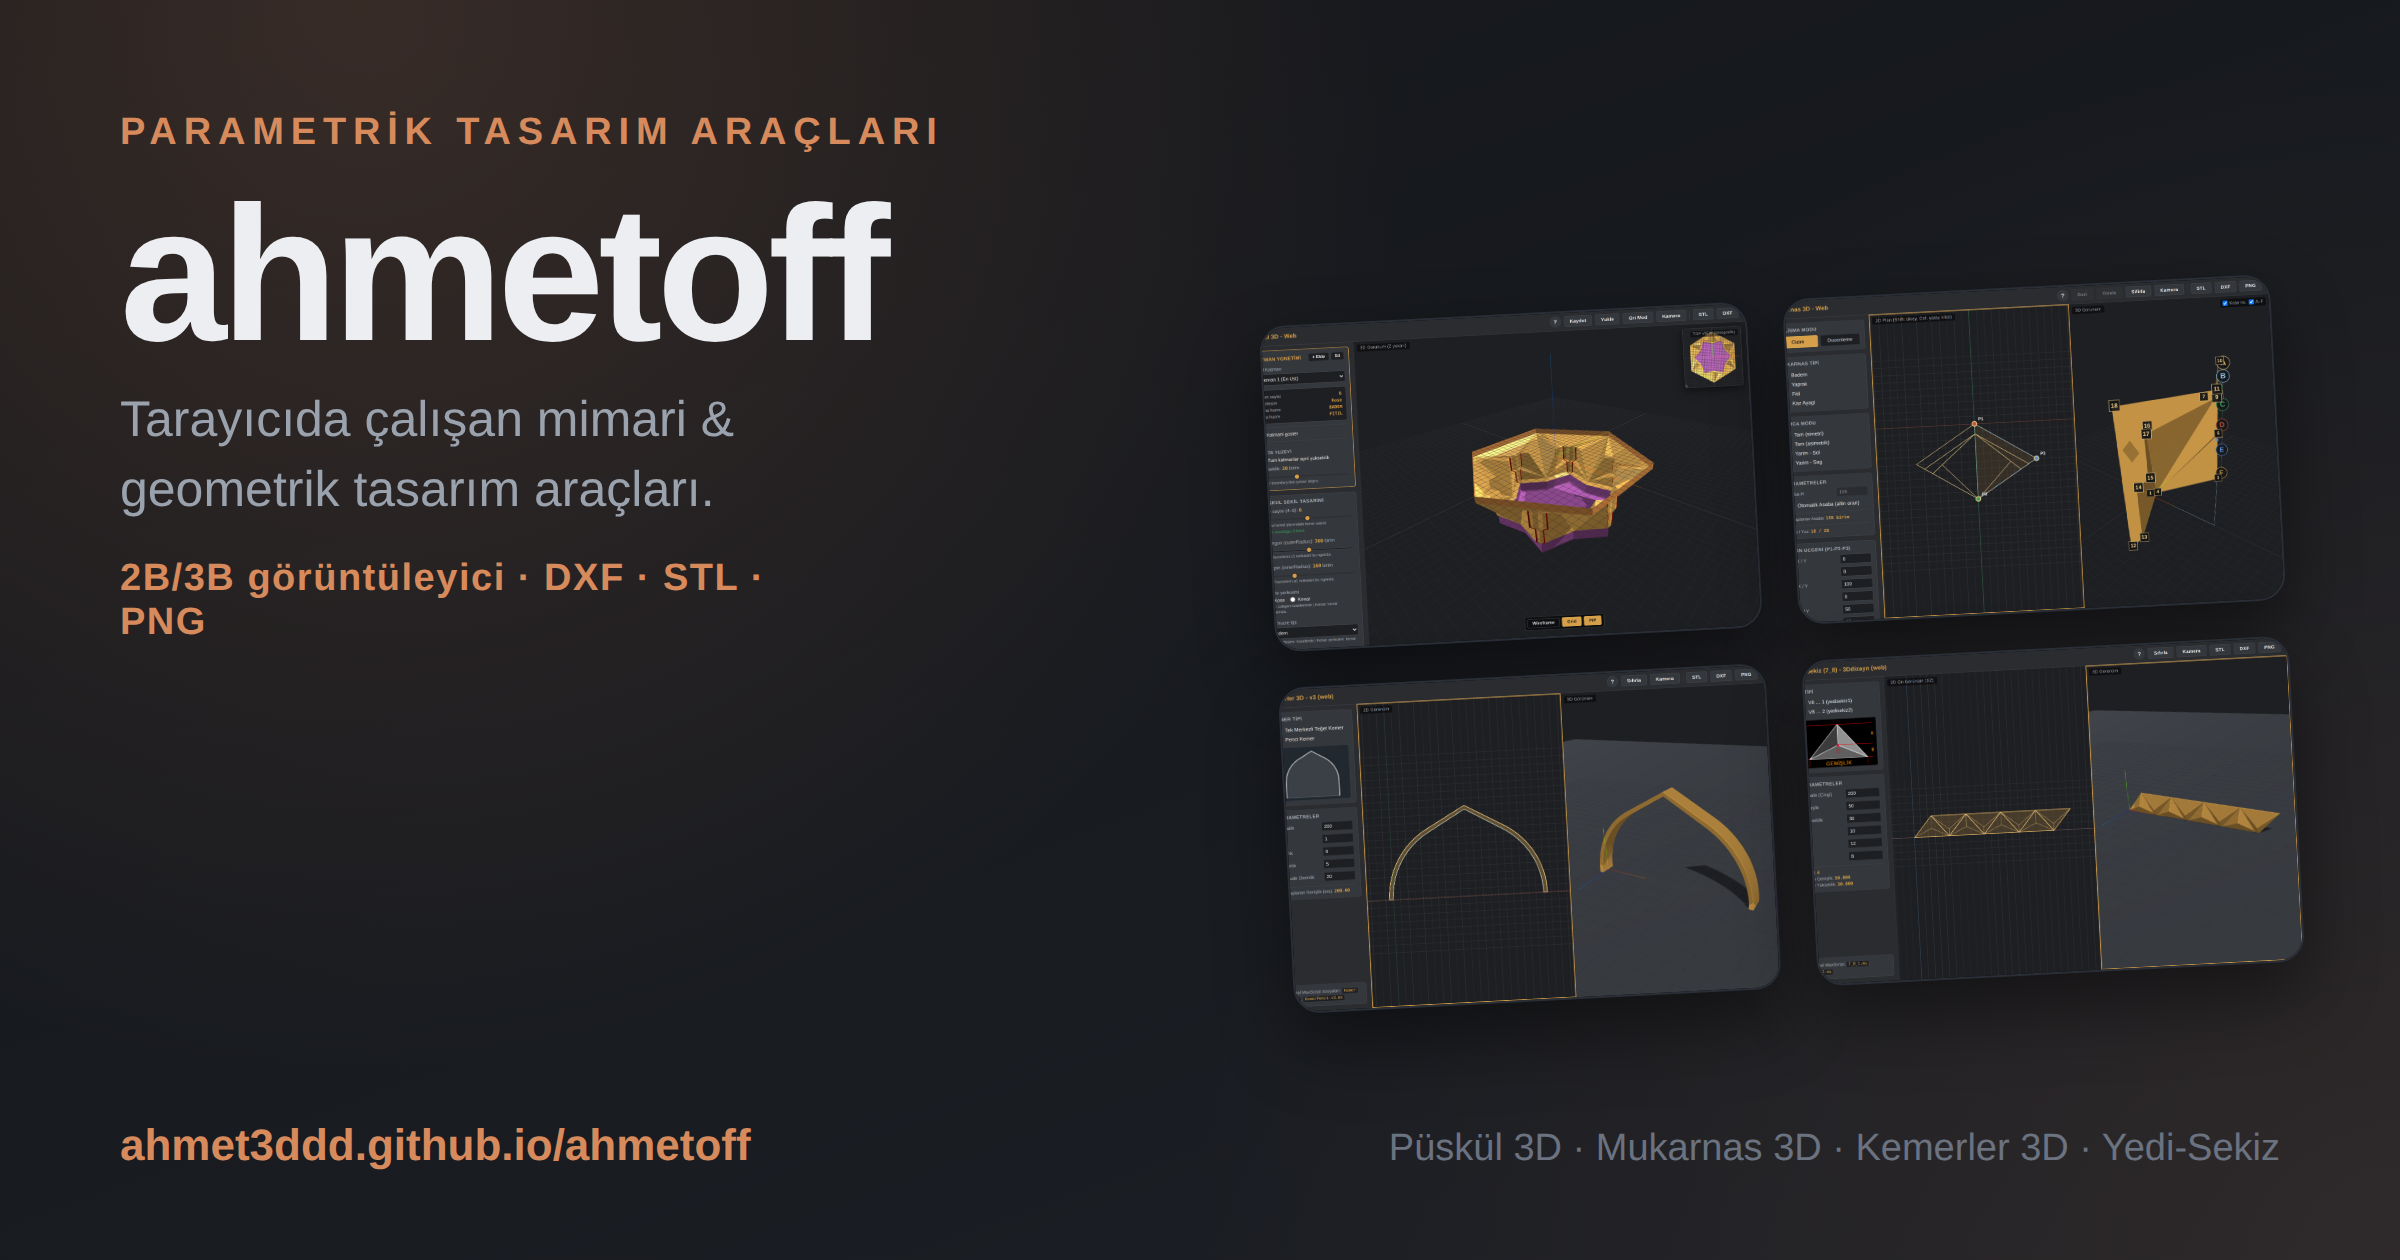
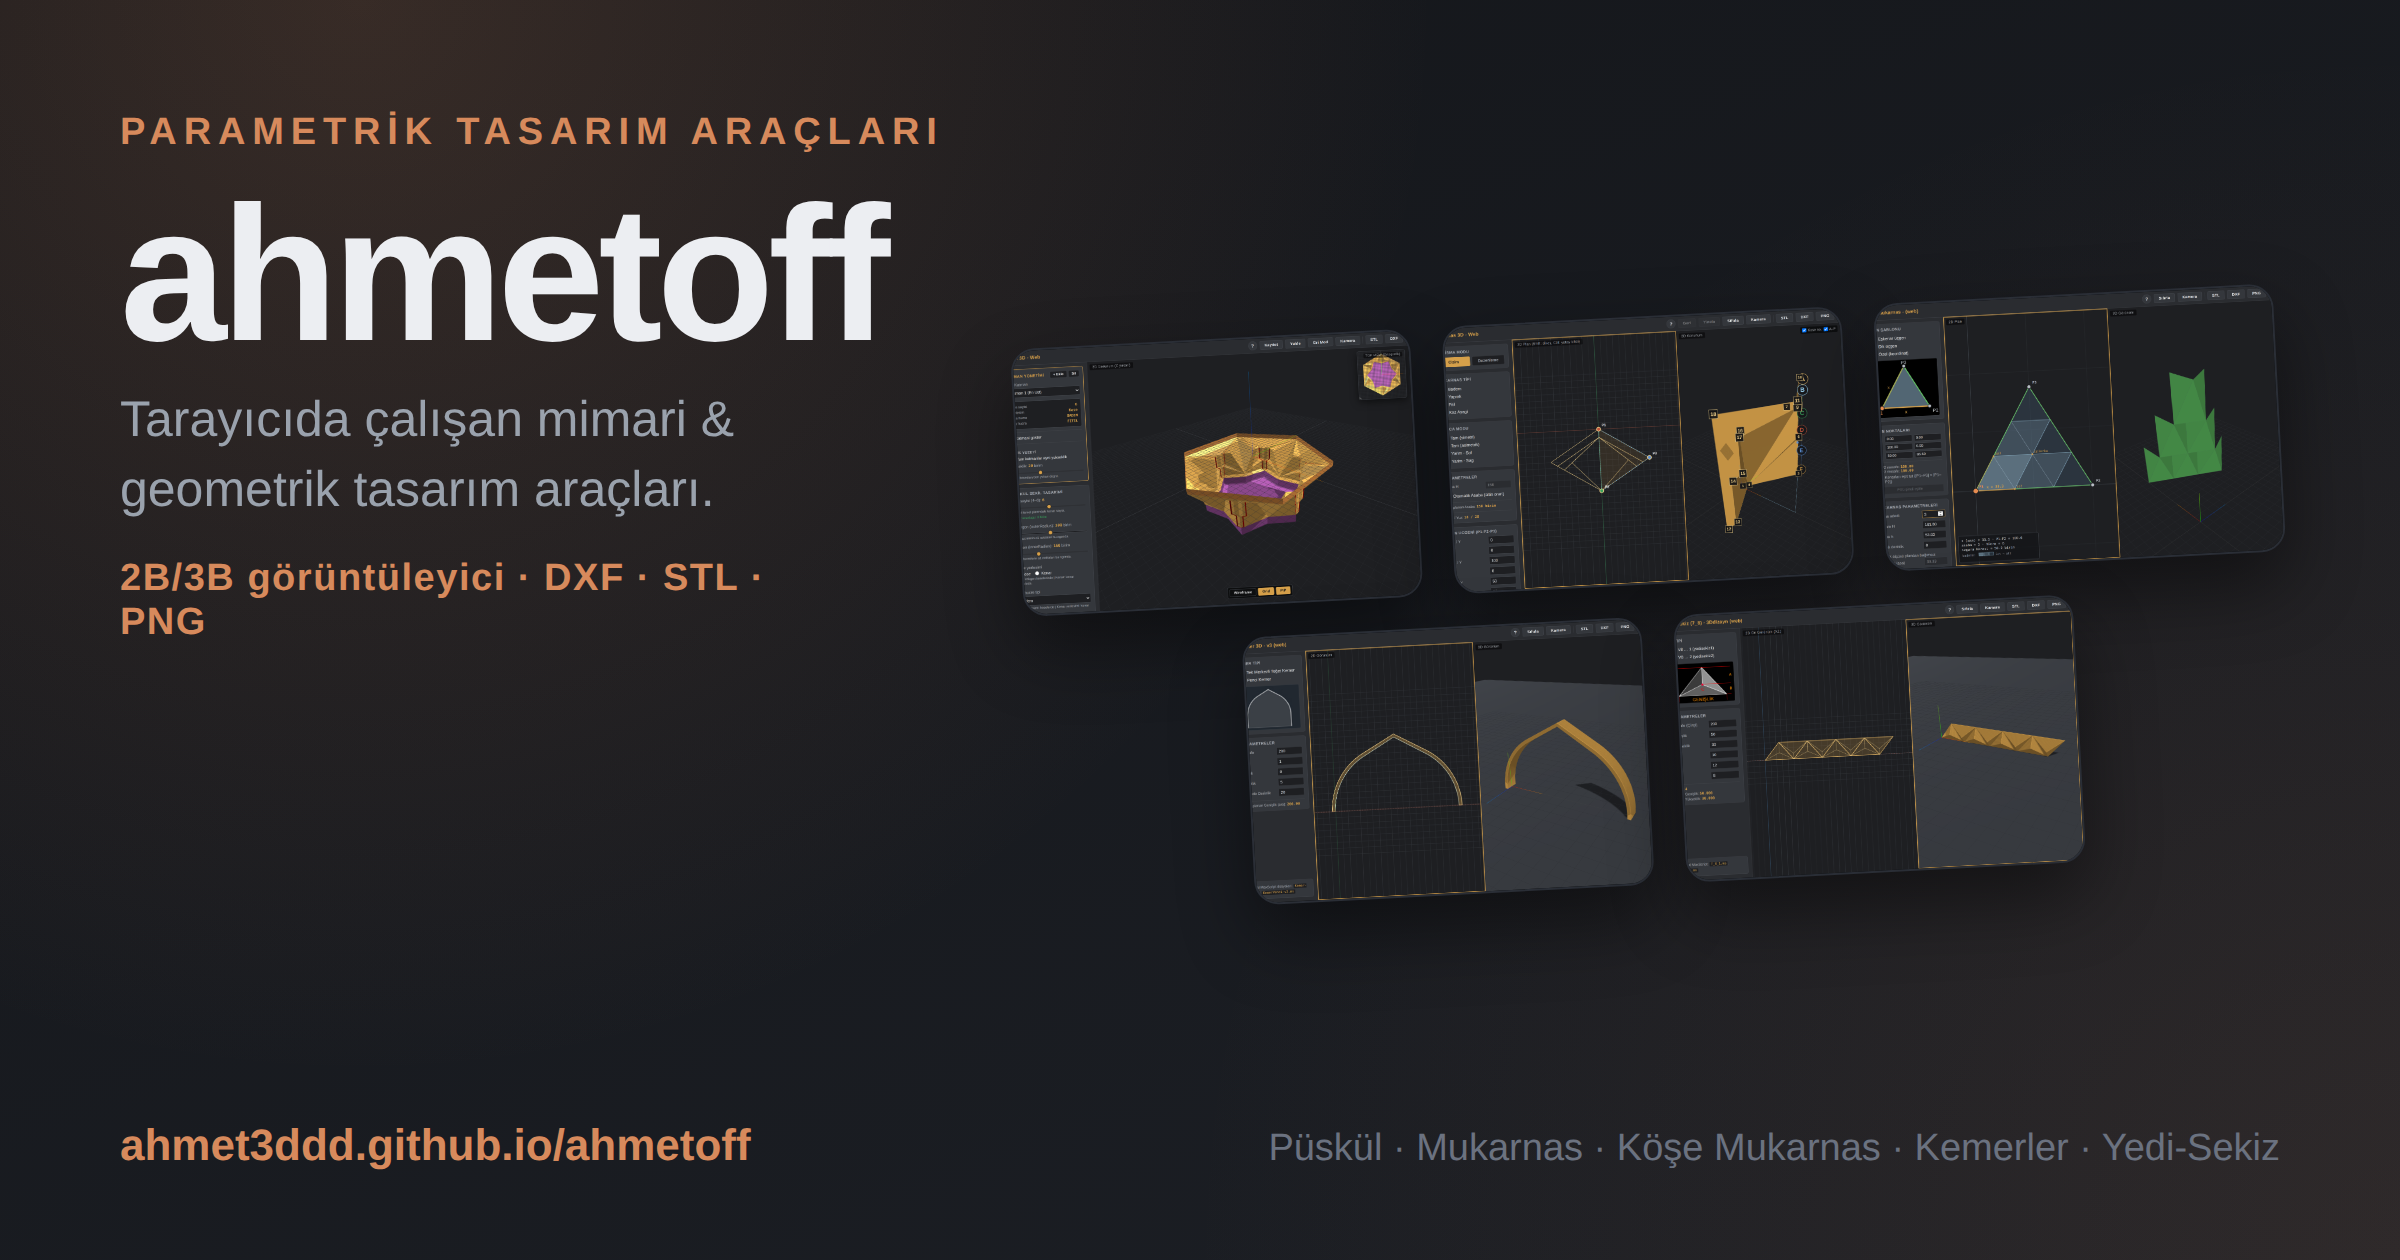
Tanitim guncellemesi: Kose Mukarnas eklendi, gorseller ve README'ler

diff --git a/index.html b/index.html
@@ -4,17 +4,17 @@
 <meta charset="utf-8" />
 <meta name="viewport" content="width=device-width, initial-scale=1" />
 <title>ahmetoff — Projeler</title>
-<meta name="description" content="Tarayıcıda çalışan parametrik mimari ve geometrik tasarım araçları: Kemerler 3D, Mukarnas 3D, Püskül 3D ve Yedi-Sekiz. 2B/3B görüntüleyici, DXF/STL/PNG dışa aktarım." />
+<meta name="description" content="Tarayıcıda çalışan parametrik mimari ve geometrik tasarım araçları: Kemerler 3D, Mukarnas 3D, Köşe Mukarnas, Püskül 3D ve Yedi-Sekiz. 2B/3B görüntüleyici, DXF/STL/PNG dışa aktarım." />
 
 <!-- Sosyal medya link onizlemesi (Open Graph / Twitter) -->
 <meta property="og:type" content="website" />
 <meta property="og:title" content="ahmetoff — Parametrik Tasarım Araçları" />
-<meta property="og:description" content="Tarayıcıda çalışan mimari ve geometrik tasarım araçları: Kemerler 3D, Mukarnas 3D, Püskül 3D, Yedi-Sekiz. 2B/3B görüntüleyici, DXF/STL/PNG dışa aktarım." />
+<meta property="og:description" content="Tarayıcıda çalışan mimari ve geometrik tasarım araçları: Kemerler 3D, Mukarnas 3D, Köşe Mukarnas, Püskül 3D, Yedi-Sekiz. 2B/3B görüntüleyici, DXF/STL/PNG dışa aktarım." />
 <meta property="og:image" content="https://ahmet3ddd.github.io/ahmetoff/assets/cover.png" />
 <meta property="og:url" content="https://ahmet3ddd.github.io/ahmetoff/" />
 <meta name="twitter:card" content="summary_large_image" />
 <meta name="twitter:title" content="ahmetoff — Parametrik Tasarım Araçları" />
-<meta name="twitter:description" content="Kemerler 3D, Mukarnas 3D, Püskül 3D ve Yedi-Sekiz — tarayıcıda çalışan tasarım araçları." />
+<meta name="twitter:description" content="Kemerler 3D, Mukarnas 3D, Köşe Mukarnas, Püskül 3D ve Yedi-Sekiz — tarayıcıda çalışan tasarım araçları." />
 <meta name="twitter:image" content="https://ahmet3ddd.github.io/ahmetoff/assets/cover.png" />
 
 <style>
@@ -143,6 +143,23 @@
           <div class="actions">
             <a class="btn primary" href="projects/AI_muk3d/index.html">Aç &rarr;</a>
             <a class="btn ghost" href="https://github.com/ahmet3ddd/ahmetoff/tree/main/projects/AI_muk3d">Kaynak</a>
+          </div>
+        </div>
+      </article>
+
+      <article class="card">
+        <img class="shot" src="assets/shot-kmuk3d.png" alt="Köşe Mukarnas ekran görüntüsü" />
+        <div class="body">
+          <h2>Köşe Mukarnas</h2>
+          <p>Köşe mukarnaslarını üçgen plan üzerinden kurgulayan; asaba sayısı ve kademelerle 3B üreten web aracı.</p>
+          <div class="tags">
+            <span class="tag">Köşe mukarnas</span>
+            <span class="tag">Üçgen plan</span>
+            <span class="tag">DXF / STL / PNG</span>
+          </div>
+          <div class="actions">
+            <a class="btn primary" href="projects/AI_K_muk3d/index.html">Aç &rarr;</a>
+            <a class="btn ghost" href="https://github.com/ahmet3ddd/ahmetoff/tree/main/projects/AI_K_muk3d">Kaynak</a>
           </div>
         </div>
       </article>

diff --git a/projects/AI_K_muk3d/README.md b/projects/AI_K_muk3d/README.md
@@ -1,0 +1,47 @@
+# Köşe Mukarnas
+
+Köşe mukarnaslarını üçgen plan üzerinden parametrik olarak 2B ve 3B kurgulayan, tarayıcıda çalışan bir tasarım aracı.
+
+**▶ Canlı demo:** https://ahmet3ddd.github.io/ahmetoff/projects/AI_K_muk3d/
+
+<img src="../../assets/shot-kmuk3d.png" alt="Köşe Mukarnas" width="100%" />
+
+## Özellikler
+
+- **Plan şablonları** — eşkenar üçgen, dik üçgen veya özel koordinat girişi
+- **Plan noktaları** — P1, P2, P3 doğrudan koordinatla ya da sürükleyerek düzenlenir; kenar eşitleme yardımcıları
+- **Mukarnas parametreleri** — asaba adedi, toplam H, asaba h, yanak derinlik, plandan bağımsız X ölçüsü
+- Asaba sayısına göre kademeli hücre bölünmesi; eş zamanlı 2B plan ve 3B görünüm
+- **DXF**, **STL** ve **PNG** dışa aktarım
+
+Asaba adedi arttıkça plan üçgeni alt hücrelere bölünür ve 3B form kademelenir (örn. asaba = 3 → 6 hücre).
+
+## Kullanım
+
+Kurulum gerekmez. `index.html` dosyasını tarayıcıda aç (3B için internet bağlantısı gerekir — Three.js CDN'den yüklenir).
+
+Eşit kenar notu: orijinal MaxScript eşit kenarlı köşe varsayar. `|P1–P3| ≠ |P1–P2|` olduğunda asaba genişliği iki kenarda farklı olur ve araç uyarı verir. *P3'ü şimdi eşitle* tek seferlik düzeltir; *Kenarları eşit tut* seçeneği P3 yönünü koruyarak uzunluğu sürekli sabit tutar.
+
+## Dizin yapısı
+
+```
+index.html              Arayüz
+css/style.css           Görsel dil
+js/
+  main.js               Ana uygulama
+  mukarnas-geometry.js  Plan ve kademe geometrisi
+  viewer-2d.js          2B plan görünümü
+  viewer-3d.js          3B görünüm
+  export-dxf.js / export-stl.js / export-png.js
+assets/                 Plan şeması (SVG)
+docs/                   Orijinal MaxScript kaynakları ve referans görseller
+scripts/                Geometri ve koordinat test betikleri
+```
+
+## Teknoloji
+
+Saf HTML/CSS/JavaScript + [Three.js](https://threejs.org) r147.
+
+---
+
+← [Tüm projeler](../../)
